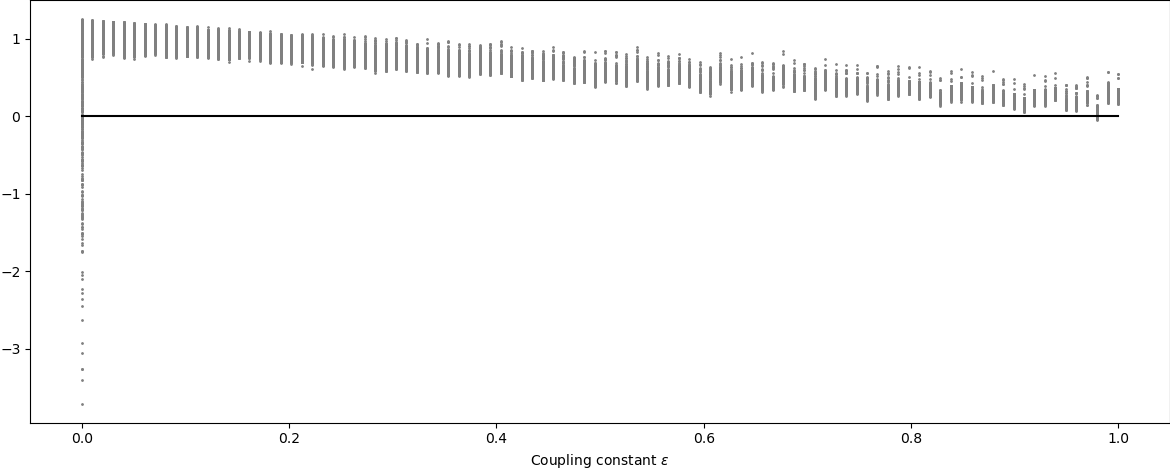
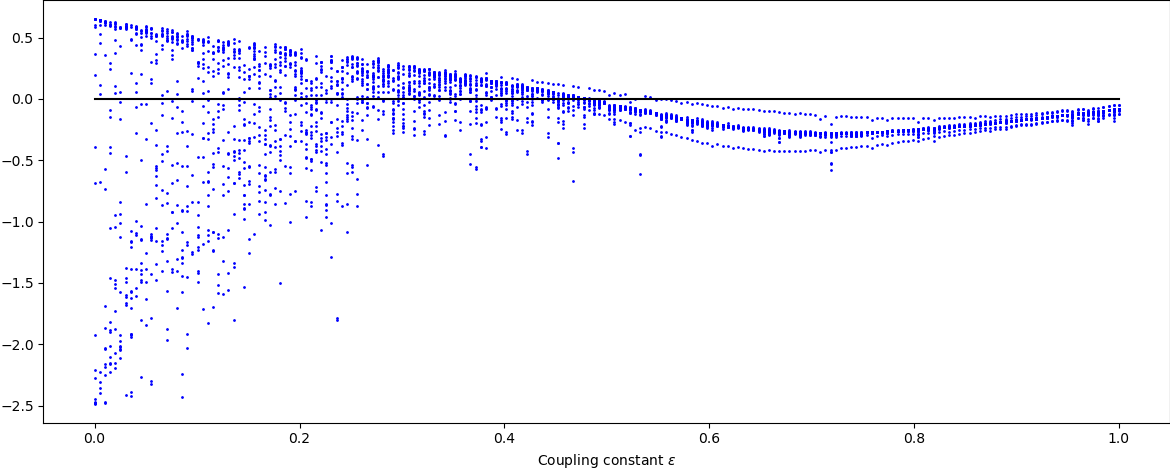
remove unstable matrix logarithm

diff --git a/logistic_2d_lyapunov.py b/logistic_2d_lyapunov.py
@@ -2,6 +2,7 @@ import seaborn as sns
 import matplotlib.pyplot as plt
 from scipy.linalg import logm
 from numpy.linalg import eigvals
+import numpy as np
 import pdb
 
 from cml import *
@@ -16,32 +17,33 @@ class CML_logistic(CML_2D):
 		super().__init__(f, n, eps, u0=u0, fprime=fprime)
 
 n = 20
-T = 100
-t0 = 20
+T = 10
+t0 = 10
 
 ''' Lyapunov spectra of varying r ''' 
 
 eps = 0.5
-r_set = np.linspace(2.5, 3.9, 100)
+r_set = np.linspace(0, 4.0, 200)
 spectra = []
 for r in r_set:
 	print(f'r: {r}')
 	model = CML_logistic(n, r, eps=eps)
 	for _ in range(t0):
 		model.step()
-	term = np.eye(n*n)
+	term = np.zeros(n)
 	for _ in range(T):
 		jac = model.jacobian
-		term = jac@term@jac.T
-	term = logm(term) / (2*T)
-	spectra.append(eigvals(term))
-spectra = np.real(np.array(spectra))
+		Q, R = np.linalg.qr(jac, mode='complete')
+		term += np.log(np.abs(np.diag(R)[:n]))
+	term /= T
+	spectra.append(term)
+spectra = np.array(spectra)
 
 fig, ax = plt.subplots(figsize=(12, 5))
 for i in range(spectra.shape[1]):
-	ax.scatter(r_set, spectra[:,i], color='grey', s=1)
+	ax.scatter(r_set, spectra[:,i], color='blue', s=1)
 ax.plot(r_set, np.zeros_like(r_set), color='black')
-ax.set_xlabel('Logistic map $r$')
+ax.set_xlabel('Nonlinearity $r$')
 
 fig.tight_layout()
 fig.savefig('logistic_r_le.png', bbox_inches='tight', pad_inches=0)
@@ -49,25 +51,26 @@ plt.show()
 
 ''' Lyapunov spectra of varying eps ''' 
 
-r = 3.5
-eps_set = np.linspace(0, 1., 100)
+r = 3.2
+eps_set = np.linspace(0, 1., 200)
 spectra = []
 for eps in eps_set:
 	print(f'eps: {eps}')
 	model = CML_logistic(n, r, eps=eps)
 	for _ in range(t0):
 		model.step()
-	term = np.eye(n*n)
+	term = np.zeros(n)
 	for _ in range(T):
 		jac = model.jacobian
-		term = jac@term@jac.T
-	term = logm(term) / (2*T)
-	spectra.append(eigvals(term))
-spectra = np.real(np.array(spectra))
+		Q, R = np.linalg.qr(jac, mode='complete')
+		term += np.log(np.abs(np.diag(R)[:n]))
+	term /= T
+	spectra.append(term)
+spectra = np.array(spectra)
 
 fig, ax = plt.subplots(figsize=(12, 5))
 for i in range(spectra.shape[1]):
-	ax.scatter(eps_set, spectra[:,i], color='grey', s=1)
+	ax.scatter(eps_set, spectra[:,i], color='blue', s=1)
 ax.plot(eps_set, np.zeros_like(eps_set), color='black')
 ax.set_xlabel('Coupling constant $\\varepsilon$')
 
